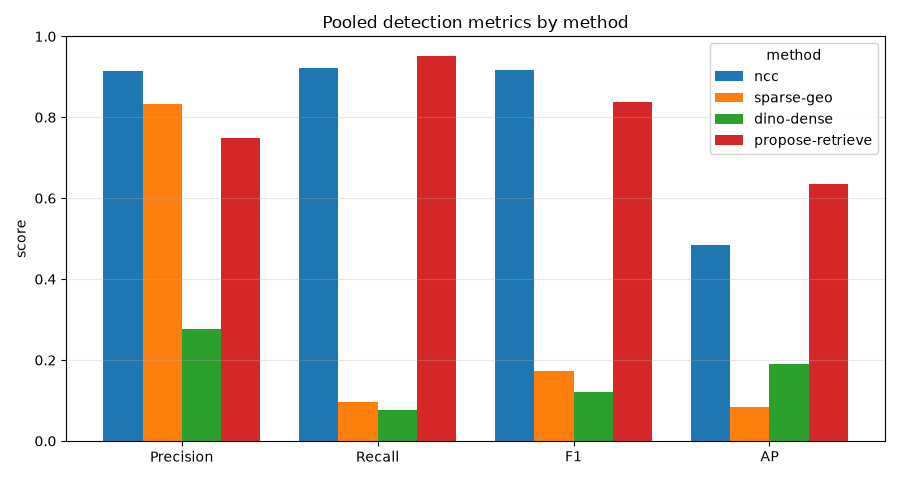
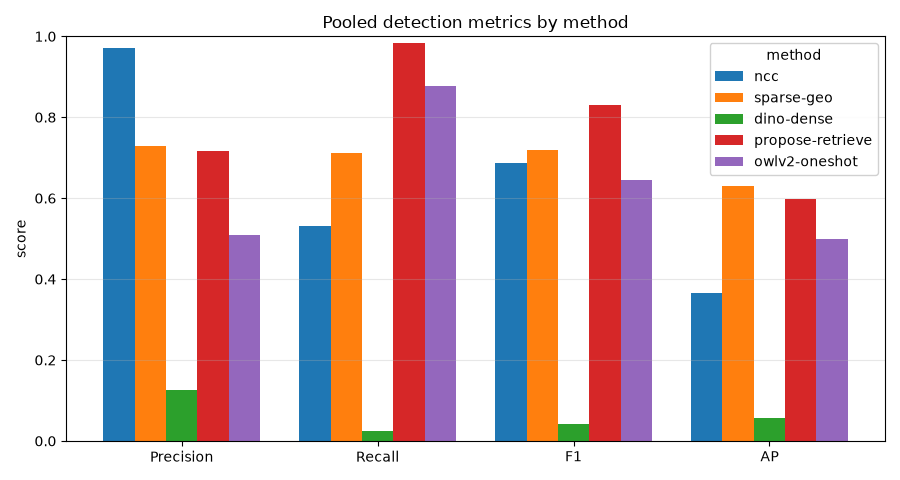
docs: regenerate benchmark with OWLv2 (Method 4)
Full sweep with all four model weights present. OWLv2 lands at P 0.51 /
R 0.88 / F1 0.65 pooled; it leads the textured regimes on F1 while ncc
and sparse-geo keep their EASY/fixed-scale wins (the per-slice crossover
is preserved).

Changed region(s): [[0.0933, 0.0625, 0.9644, 0.9375]]

diff --git a/docs/reports/benchmark-report.html b/docs/reports/benchmark-report.html
@@ -53,7 +53,7 @@ datasets</b> — the original easy chips plus textured sets that give the keypoi
 methods a fair fight. Confidence intervals are <b>bootstrap over images</b> (instances in one image
 are not independent). Abstentions render as <span class='na'>n/a</span>, never zero.</p>
 <p class='meta'>IoU 0.5 · AP all-point interpolation · CPU (deterministic) ·
-git <code>3f06e498</code> · bootstrap 2000× over images</p>
+git <code>b58df496</code> · bootstrap 2000× over images</p>
 
 <h2>The four methods</h2>
 <p class='sub'>Labelled 1–4 as implemented. The source-research numbering is 1, 2, 3, 5 — research

diff --git a/docs/benchmark/results.md b/docs/benchmark/results.md
@@ -3,32 +3,35 @@
 Generated from `results.json` by `pixi run bench-charts`. Do not hand-edit; re-run the benchmark and regenerate. `n/a` is an **abstention** (nothing returned, so the rate is undefined) -- never read it as zero.
 
 - IoU threshold: **0.5** | AP convention: all-point interpolation (COCO-style), from the EVAL-08 candidate log
-- Coverage: 12 labelled / 12 requested
-- Git SHA at run: `15b4278241e1d227917d3bda2260fed4ef09b3e2`
+- Coverage: 60 labelled / 60 requested
+- Git SHA at run: `b58df496b2440b3cc965e899974fda359a0dc401`
 
 ## Pooled metrics by method
 
 | method | precision | recall | F1 | mean AP | abstentions | errors | p50 ms |
 | --- | --- | --- | --- | --- | --- | --- | --- |
-| `ncc` | 0.913 | 0.922 | 0.918 | 0.484 | 0 | 0 | 238.0 |
-| `sparse-geo` | 0.833 | 0.097 | 0.174 | 0.083 | 11 | 0 | 76.4 |
-| `dino-dense` | 0.276 | 0.078 | 0.121 | 0.190 | 0 | 0 | 2259.2 |
-| `propose-retrieve` | 0.748 | 0.951 | 0.838 | 0.635 | 0 | 0 | 291.5 |
+| `ncc` | 0.972 | 0.531 | 0.687 | 0.364 | 1 | 0 | 104.6 |
+| `sparse-geo` | 0.729 | 0.711 | 0.720 | 0.629 | 11 | 0 | 82.7 |
+| `dino-dense` | 0.127 | 0.026 | 0.043 | 0.058 | 0 | 0 | 492.6 |
+| `propose-retrieve` | 0.716 | 0.985 | 0.829 | 0.598 | 0 | 0 | 371.2 |
+| `owlv2-oneshot` | 0.509 | 0.878 | 0.645 | 0.499 | 0 | 0 | 4209.7 |
 
 ## Recall by scale bucket (the NCC-vs-sparse-geo crossover)
 
 | method | fixed-scale recall | varied-scale recall |
 | --- | --- | --- |
-| `ncc` | 0.989 | 0.300 |
-| `sparse-geo` | 0.108 | 0.000 |
-| `dino-dense` | 0.086 | 0.000 |
-| `propose-retrieve` | 0.978 | 0.700 |
+| `ncc` | 0.811 | 0.140 |
+| `sparse-geo` | 0.714 | 0.708 |
+| `dino-dense` | 0.041 | 0.004 |
+| `propose-retrieve` | 0.994 | 0.971 |
+| `owlv2-oneshot` | 0.855 | 0.909 |
 
 ## p50 latency by canvas size (ms)
 
-| method | 320x240 | 512x384 | 800x600 | 960x640 | 1024x768 | 1600x1200 | 2048x1536 | 2560x1920 | 3200x2400 | 4096x3072 | 6000x4000 |
-| --- | --- | --- | --- | --- | --- | --- | --- | --- | --- | --- | --- |
-| `ncc` | 49.9 | 40.5 | 92.4 | 118.9 | 132.5 | 341.0 | 610.4 | 893.7 | 1449.0 | 2603.0 | 5670.9 |
-| `sparse-geo` | 11.0 | 11.6 | 26.5 | 35.3 | 45.1 | 107.6 | 202.7 | 275.2 | 445.9 | 1122.6 | 2289.9 |
-| `dino-dense` | 208.5 | 135.8 | 458.1 | 722.1 | 960.5 | 4157.7 | 5052.0 | 4200.1 | 4025.7 | 4088.5 | 3557.9 |
-| `propose-retrieve` | 270.0 | 274.1 | 222.5 | 355.1 | 269.0 | 228.4 | 336.7 | 531.5 | 355.2 | 639.7 | 308.9 |
+| method | 320x240 | 512x384 | 640x480 | 800x600 | 960x640 | 1024x768 | 1600x1200 | 2048x1536 | 2560x1920 | 3200x2400 | 4096x3072 | 6000x4000 |
+| --- | --- | --- | --- | --- | --- | --- | --- | --- | --- | --- | --- | --- |
+| `ncc` | 21.8 | 41.7 | 65.9 | 101.1 | 139.0 | 165.7 | 358.6 | 620.5 | 975.2 | 1582.3 | 2761.4 | 5481.6 |
+| `sparse-geo` | 6.6 | 12.8 | 73.5 | 76.3 | 38.3 | 108.5 | 109.5 | 218.7 | 293.1 | 456.7 | 928.8 | 1353.8 |
+| `dino-dense` | 190.5 | 189.4 | 272.8 | 490.8 | 728.1 | 1024.5 | 4188.2 | 4257.2 | 4191.7 | 4163.5 | 4216.3 | 3478.9 |
+| `propose-retrieve` | 263.2 | 277.6 | 364.4 | 368.0 | 387.8 | 383.2 | 246.6 | 358.0 | 561.7 | 379.5 | 683.7 | 323.1 |
+| `owlv2-oneshot` | 4933.9 | 4021.9 | 4208.1 | 4218.2 | 4624.2 | 4225.2 | 4016.2 | 4037.2 | 4028.7 | 4019.1 | 4076.8 | 4137.1 |
